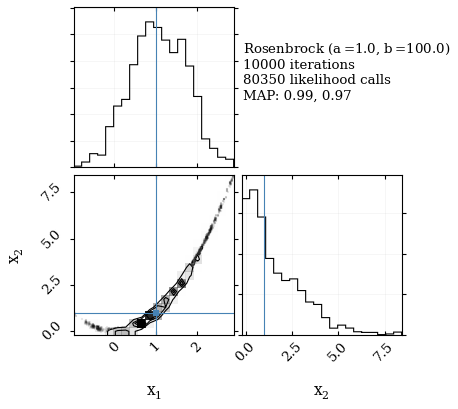
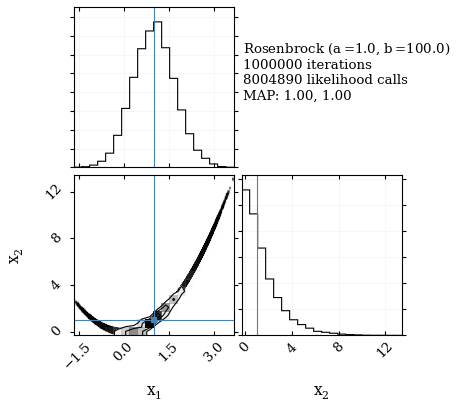
compute autocorrelation times for very long rosenbrock chain

diff --git a/squish/test.py b/squish/test.py
@@ -26,17 +26,22 @@ def test_gaussian(niter=10000, ndim=2):
     print('----\nGaussian')
     print('{} likelihood calls for {} iterations'.format(ss.nlike, niter))
     fig.show()
+    return ss
 
 
-def test_rosenbrock(niter=10000, a=1, b=100):
+def test_rosenbrock(niter=10000, a=1, b=100, save=False):
     p0 = np.array([-1, 1])
     lnp0 = rosenbrock(p0, a=a, b=b)
 
-    transform = np.linalg.cholesky(np.diag([a, b]))
+    transform = np.linalg.cholesky(np.diag([1, 1]))
     ss = SliceSampler(transform, rosenbrock, postkwargs={'a':a, 'b':b})
 
     res = [r for r in ss.sample(p0, lnp0, niter=niter)]
-    fig = triangle.corner(ss.chain, truths=[a, a], labels=[r'$x_1$', r'$x_2$'])
+    #ss.reset()
+    #ss.sample(p0, lnp0, niter=niter, storechain=True)
+
+    print('finished sampling')
+    fig = triangle.corner(ss.chain[5000:, :], truths=[a, a], labels=[r'$x_1$', r'$x_2$'])
     free = np.array(fig.axes)[~np.array([ax.has_data() for ax in fig.axes])]
     best = ss.chain[np.argmax(ss.lnprob), :]
     text = 'Rosenbrock ($a={:4.1f}$, $b={:4.1f})$\n'.format(a, b)
@@ -45,11 +50,22 @@ def test_rosenbrock(niter=10000, a=1, b=100):
     text += 'MAP: {:4.2f}, {:4.2f}'.format(*best)
     free[0].text(0.01, 0.8, text, transform=free[0].transAxes, verticalalignment='top')
     fig.show()
-    fig.savefig('rosenbrock.pdf')
+    if save:
+        fig.savefig('rosenbrock.png')
+    return ss
+
     
 if __name__ == "__main__":
     import matplotlib.pyplot as pl
     pl.rcParams['xtick.direction'] = 'in'
     pl.rcParams['xtick.direction'] = 'in'
     #test_gaussian(ndim=4)
-    test_rosenbrock()
+    ss = test_rosenbrock()
+
+    ss = test_rosenbrock(niter=int(1e6))
+    import acor
+    lag = 10 **(np.arange(4)+1)
+    tau1 = [acor.acor(ss.chain[:,1], maxlag=l)[0] for l in lag]
+    tau0 = [acor.acor(ss.chain[:,0], maxlag=l)[0] for l in lag]
+    for l, t1, t0 in zip(lag, tau1, tau0):
+        print('maxlag:{}, tau0:{}, tau1:{}'.format(l, t0, t1))

diff --git a/README.md b/README.md
@@ -1,17 +1,19 @@
 # squish
 
 
-A simple n-d slice sampler, using a covariance matrix (or ellipsoid) to define slice directions and step sizes
+A simple n-d slice sampler, using a covariance matrix (or ellipsoid) to set step sizes and draw slice directions.
 
 ### Example
 
 The Rosenbrock function has the density:
 ```python
-p(x_1,x_2) = -(a-x_1)**2 - b * (x_2 - x_1**2)**2
+lnp(x_1,x_2) = -(a-x_1)**2 - b * (x_2 - x_1**2)**2
 ```
 which has a maximum at `x_1 = x_2 = a`.
 
-If we sample this for 10000 iterations with `squish`,
-starting at `x = (-1, 1)` with an ellipsoidal direction and step size given by `diag([a,b])` we obtain
+If we sample this for 1e6 iterations with `squish`,
+starting at `x = (-1, 1)` we obtain
 
 ![Rosenbrock](squish/rosenbrock.png?raw=True "Rosenbrock with squish")
+
+The autocorrelation times are ~300-400 in `x_1` and `x_2`, only weakly dependent on the covariance of the ellipsoid (though the number of likelihood calls changes).
